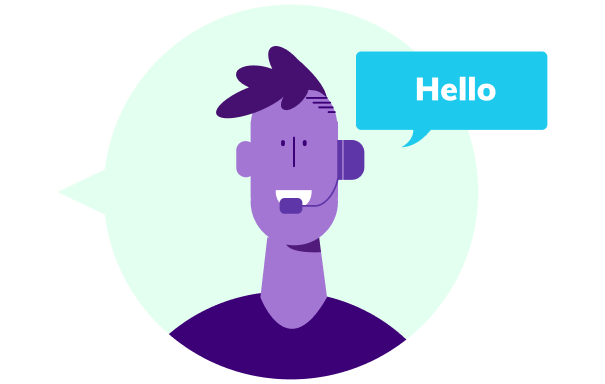
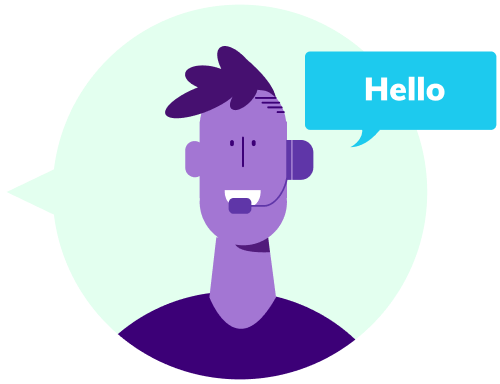
my money section fixes

diff --git a/style.css b/style.css
@@ -388,24 +388,24 @@ main {
             width: 50%;
 
             div.circle-container {
-                width: 100%;
 
                 div.circle {
                     border-radius: 50%;
                     /* fixme - change to lavendar-light */
                     border: .0625rem solid var(--color-lavender-100);
-                    aspect-ratio: 1 / 1;
+                    /* aspect-ratio: 1 / 1; */
+                    margin: 0 auto;
                 }
 
                 div.large-circle {
-                    width: 31.25rem;
-                    height: 31.25rem;
+                    width: 25rem;
+                    height: 25rem;
                     position: relative;
                 }
 
                 div.medium-circle {
-                    width: 23.75rem;
-                    height: 23.75rem;
+                    width: 18.75rem;
+                    height: 18.75rem;
                     position: absolute;
                     top: 50%;
                     left: 50%;
@@ -413,8 +413,8 @@ main {
                 }
 
                 div.small-circle {
-                    width: 17.5rem;
-                    height: 17.5rem;
+                    width: 12.5rem;
+                    height: 12.5rem;
                     position: absolute;
                     top: 50%;
                     left: 50%;
@@ -440,24 +440,28 @@ main {
                 }
 
                 i.fa-sitemap {
-                    top: 1.875rem;
+                    top: .9375rem;
                     right: 5rem;
                 }
-                i.fa-credit-card{
-                    top: 1.875rem;
+
+                i.fa-credit-card {
+                    top: .9375rem;
                     left: 5rem;
                 }
-                i.fa-paper-plane-top{
+
+                i.fa-paper-plane-top {
                     bottom: -1.25rem;
                     left: 50%;
                 }
-                i.fa-circle-three-quarters{
-                    top: 3rem;
-                    left: 15rem;
+
+                i.fa-circle-three-quarters {
+                    top: 2.25rem;
+                    left: 11.25rem;
                 }
-                i.fa-piggy-bank{
-                    bottom: 3rem;
-                    left: 15rem;
+
+                i.fa-piggy-bank {
+                    bottom: 2.25rem;
+                    left: 11.25rem;
                 }
             }
         }
@@ -479,7 +483,6 @@ main {
                 display: flex;
                 flex-direction: column;
                 gap: 1.25rem;
-                flex: 1;
 
                 i {
                     background: var(--color-lavender-100);
@@ -1063,16 +1066,20 @@ div.get-app {
                     width: fit-content;
                     text-align: center;
                 }
+
+                img{
+                    width: 50%;
+                }
             }
         }
 
         section.the-money-app {
-            padding-top: 12.5rem;
+            padding-top: 9.375rem;
             display: flex;
             gap: 1.875rem;
 
             div.left-side {
-                width: 100%;
+                /* width: 100%; */
 
                 p {
                     width: 100%;
@@ -1083,8 +1090,8 @@ div.get-app {
                 div.circle-container {
 
                     div.large-circle {
-                        width: 90%;
-                        height: 90%;
+                        /* width: 90%; */
+                        /* height: 90%; */
                         margin: 3.125rem auto;
                         /* aspect-ratio: 1 / 1; */
                     }
@@ -1239,6 +1246,7 @@ div.get-app {
             padding-top: 12.5rem;
 
             div.left-side {
+                width: 100%;
 
                 h1,
                 p {
@@ -1251,6 +1259,11 @@ div.get-app {
                 }
             }
 
+            div.right-side {
+                width: 100%;
+                display: flex;
+                justify-content: center;
+            }
         }
 
         section.five-cards {
@@ -1278,6 +1291,7 @@ div.get-app {
         }
 
         section.our-partners {
+            padding: 3.125rem;
             div.container {
                 margin-top: unset;
 
@@ -1286,6 +1300,31 @@ div.get-app {
 
                 img {
                     width: 80%;
+                }
+            }
+        }
+
+        section.choose-the-freedom{
+            table{
+                width: 100%;
+                thead{
+                    th{
+                        /* padding: 0; */
+                        width: 30%;
+                        word-wrap: break-word;
+                        img{
+                            height: .625rem;
+                        }
+                    }
+                }
+                tbody{
+                    tr{
+                        td{
+                            padding: .625rem .3125rem;
+                            width: 30%;
+                            word-wrap: break-word;
+                        }
+                    }
                 }
             }
         }
